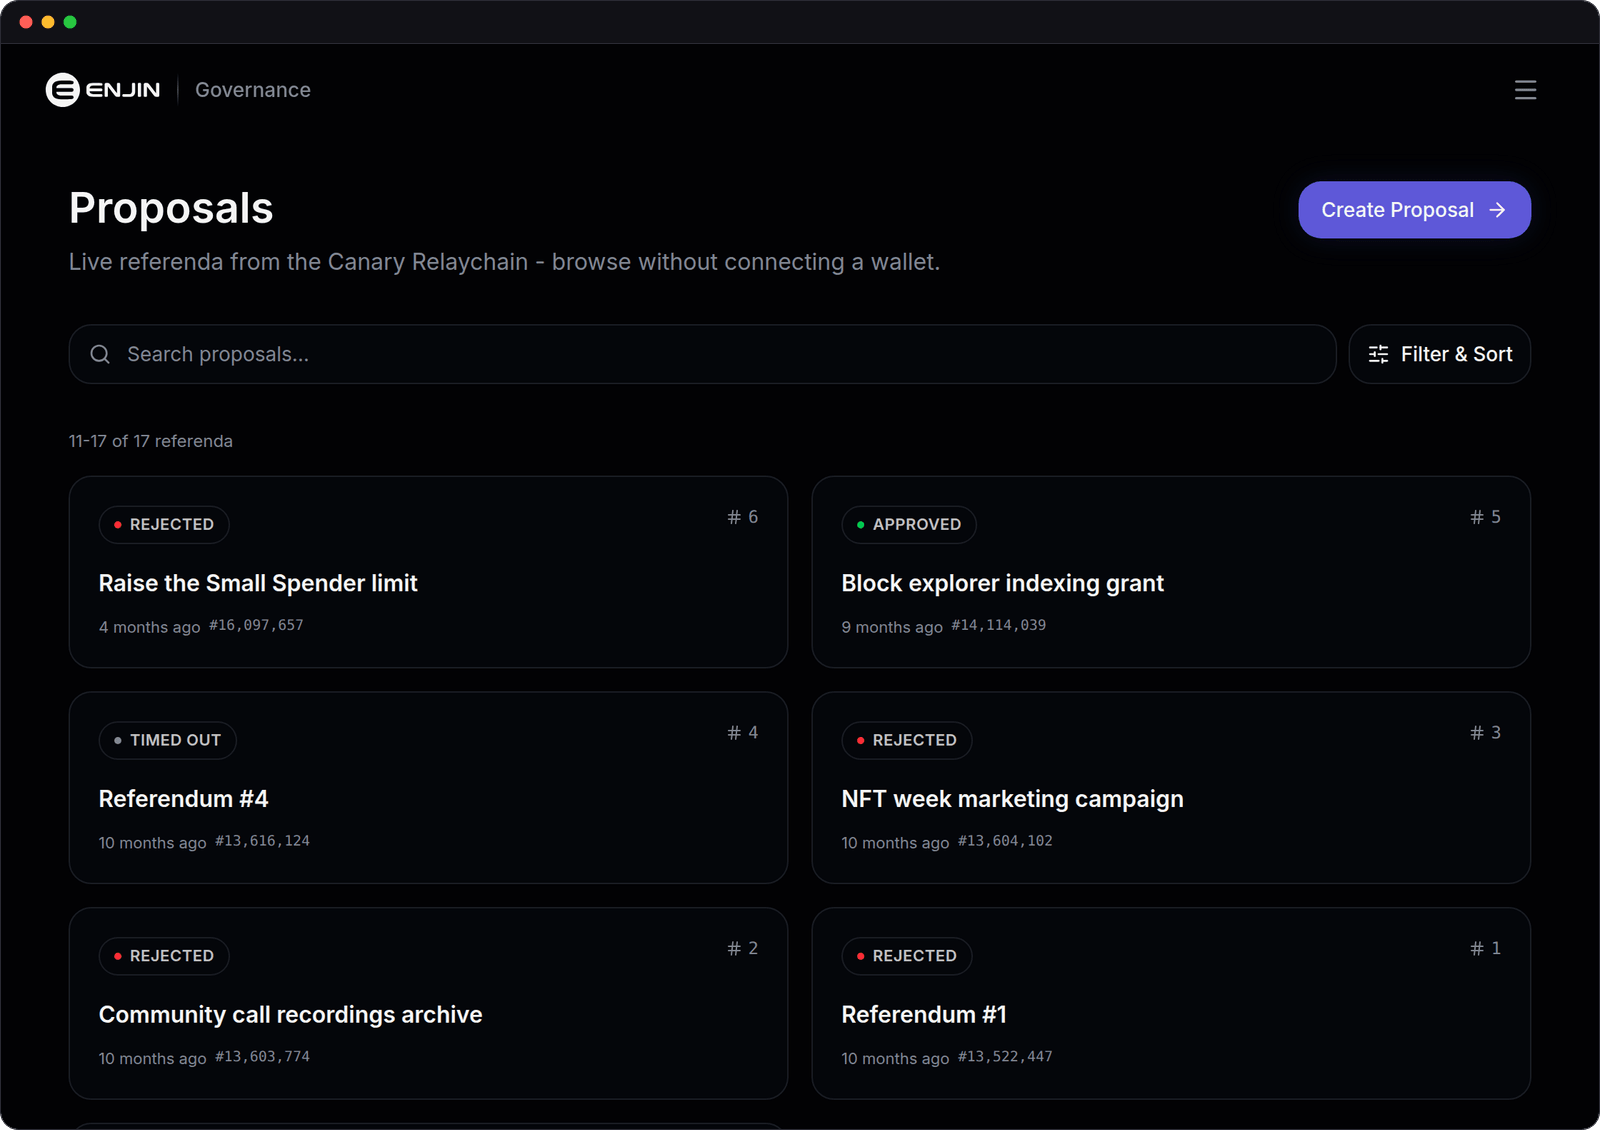
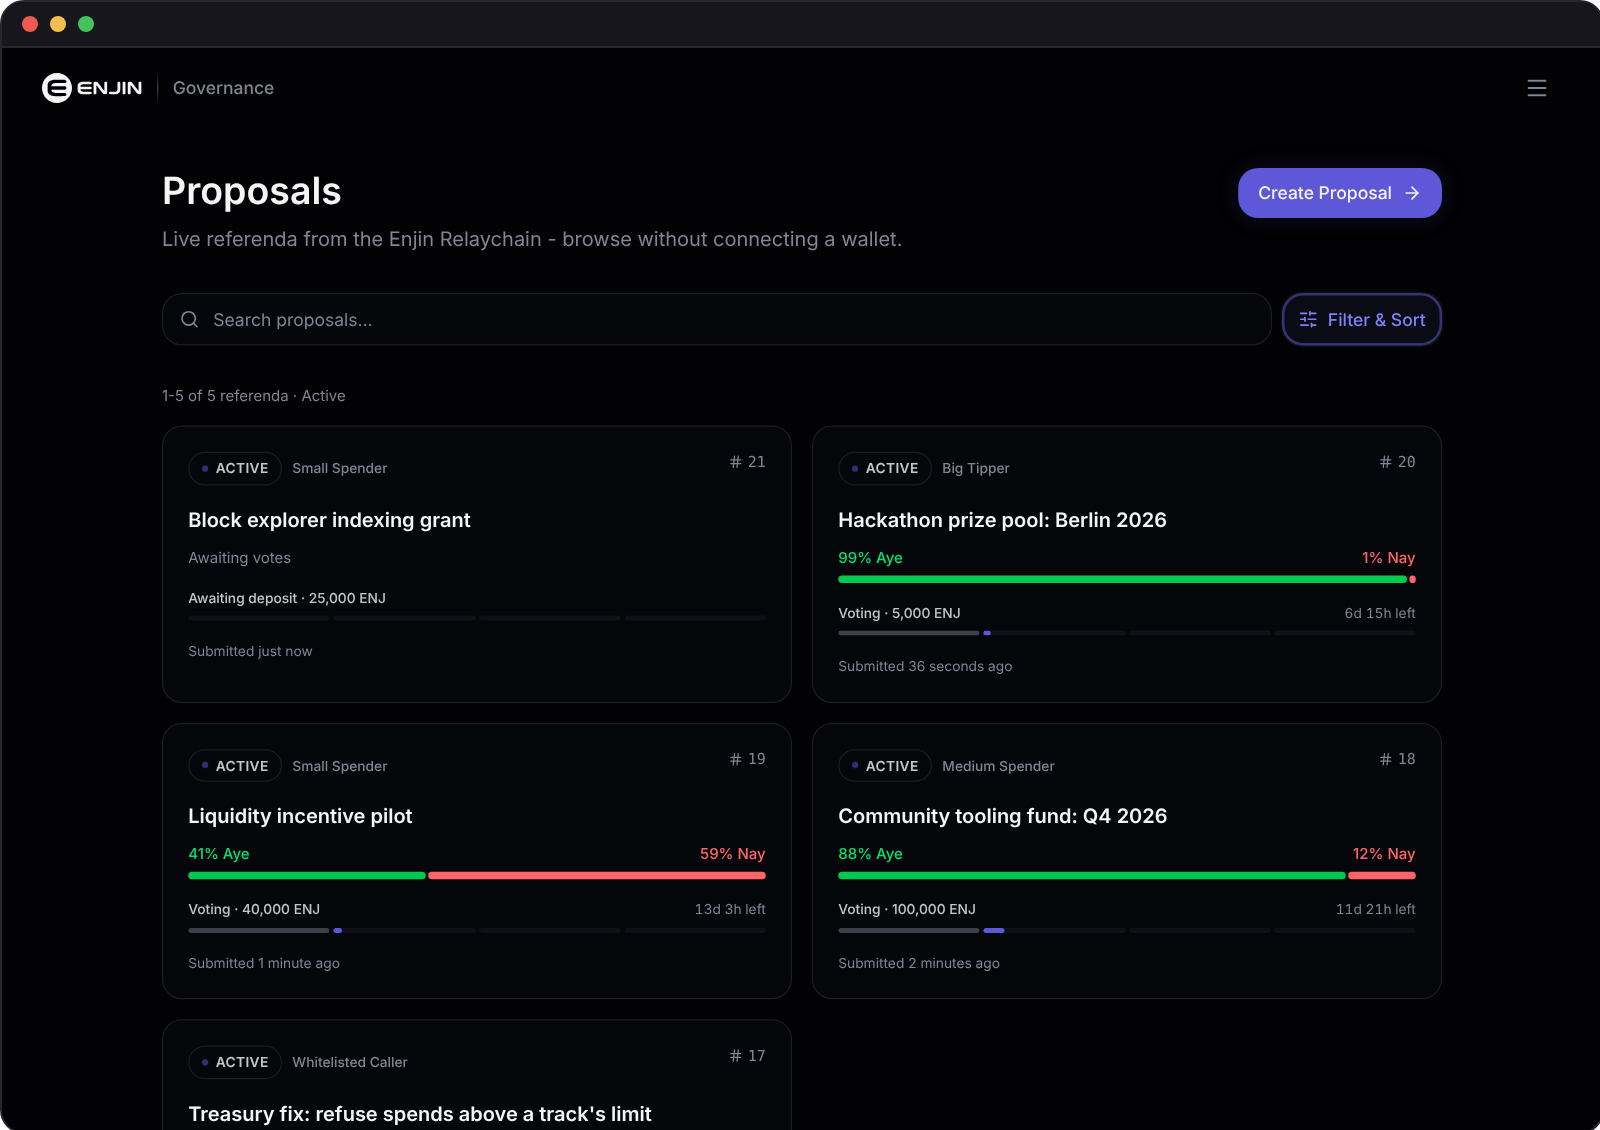
Bring the README and its screenshots up to 2.0
New screenshots in light and dark from a fork of Enjin Relaychain:
mainnet addresses and ENJ instead of Canary's cn and cENJ, the wide
layout, Abstain in the vote panel, the moderation Status tab and the 5.5
models. The Fellowship replaces the advanced composer image, which still
showed the removed system.setCode.

The text adds Abstain, the Fellowship and the fast track, the one-tap
Enjin Wallet flow, the Fellowship pages, Canary Matrixchain's move to
OpenGov, and current numbers (1205 unit and 28 browser tests).

diff --git a/README.md b/README.md
@@ -6,13 +6,13 @@
 
 <p align="center">
   <b>The web client for <a href="https://docs.enjin.io/">Enjin OpenGov</a>.</b><br/>
-  Browse referenda, vote with conviction, file treasury and admin proposals,
-  discuss them and keep the space clean - from the browser, backed by live chain RPC.
+  Browse referenda, vote Aye, Nay or Abstain, file treasury and admin proposals,
+  follow the Fellowship, discuss and keep the space clean - from the browser, backed by live chain RPC.
 </p>
 
 <p align="center">
   <a href="https://github.com/chriszemmel/enjin-governance/actions/workflows/ci.yml"><img alt="CI" src="https://github.com/chriszemmel/enjin-governance/actions/workflows/ci.yml/badge.svg" /></a>
-  <img alt="Tests" src="https://img.shields.io/badge/tests-1146%20passing-22c55e?style=flat-square" />
+  <img alt="Tests" src="https://img.shields.io/badge/tests-1205%20passing-22c55e?style=flat-square" />
   <a href="LICENSE"><img alt="License: AGPL-3.0" src="https://img.shields.io/badge/license-AGPL--3.0-6d28d9?style=flat-square" /></a>
   <img alt="Next.js" src="https://img.shields.io/badge/Next.js-16-black?style=flat-square&logo=next.js" />
   <img alt="React" src="https://img.shields.io/badge/React-19-149eca?style=flat-square&logo=react&logoColor=white" />
@@ -48,13 +48,18 @@
 <table>
   <tr>
     <td width="33%" valign="top"><b>Read the chain</b><br/>Referenda, tallies, voters and history straight from Enjin's RPC and archive nodes. No indexer required.</td>
-    <td width="33%" valign="top"><b>Vote and delegate</b><br/>Conviction voting, delegation per track or across all, lock and deposit reclaims. Six wallets, including Enjin Wallet.</td>
+    <td width="33%" valign="top"><b>Vote and delegate</b><br/>Aye, Nay or Abstain with conviction, delegation per track or across all, lock and deposit reclaims. Six wallets, including Enjin Wallet.</td>
     <td width="33%" valign="top"><b>Propose</b><br/>Treasury requests and admin calls - runtime upgrades, cancels, whitelists, raw calls - in one signature each.</td>
   </tr>
   <tr>
     <td valign="top"><b>Write for voters</b><br/>Markdown, inline images, PDFs and checksum-validated address chips, with a live preview of what voters will see.</td>
     <td valign="top"><b>Verifiable records</b><br/>Every proposal's text is pinned on chain with an EGOV1 hash, so anyone can check it hasn't been swapped.</td>
     <td valign="top"><b>Moderation built in</b><br/>Reports, a review queue, roles by wallet, a public log and optional AI pre-checks with a hard daily cost cap.</td>
+  </tr>
+  <tr>
+    <td valign="top"><b>The Fellowship</b><br/>Members, ranks and every F# referendum, rank-weighted voting, and filing from a Fellowship chamber.</td>
+    <td valign="top"><b>The fast track</b><br/>A call the Fellowship whitelists runs through the public WhitelistedCaller track, linked on both referenda.</td>
+    <td valign="top"><b>Built from the runtime</b><br/>Tracks, deposits, spend limits, support and vote weights are read from the chain and follow its upgrades.</td>
   </tr>
 </table>
 
@@ -80,10 +85,10 @@
   <tr>
     <td width="50%" valign="top">
       <picture>
-        <source media="(prefers-color-scheme: dark)" srcset="docs/screenshots/advanced-dark.png" />
-        <img src="docs/screenshots/advanced-light.png" alt="Reviewing a runtime upgrade proposal before signing" />
+        <source media="(prefers-color-scheme: dark)" srcset="docs/screenshots/fellowship-dark.png" />
+        <img src="docs/screenshots/fellowship-light.png" alt="A fellowship referendum that whitelists a runtime upgrade, with the member's rank-weighted vote" />
       </picture>
-      <p align="center"><sub><b>Advanced proposals</b> - a runtime upgrade, reviewed before signing</sub></p>
+      <p align="center"><sub><b>The Fellowship</b> - a whitelist referendum and a rank-weighted vote</sub></p>
     </td>
     <td width="50%" valign="top">
       <picture>
@@ -98,12 +103,12 @@
 <p align="center">
   <picture>
     <source media="(prefers-color-scheme: dark)" srcset="docs/screenshots/phones-dark.png" />
-    <img src="docs/screenshots/phones-light.png" alt="The app on a phone: proposals, a proposal, its tally and text, and the report dialog" width="100%" />
+    <img src="docs/screenshots/phones-light.png" alt="The app on a phone: proposals, a proposal, its text, and voting Abstain" width="100%" />
   </picture>
   <br/><sub>Every page works on a phone.</sub>
 </p>
 
-<sub>Screenshots show test data on Canary.</sub>
+<sub>Screenshots show sample proposals on a local fork of Enjin Relaychain, with test wallets that never sign.</sub>
 
 ## Contents
 
@@ -138,8 +143,32 @@
   the 0.1x-6x tiers. "One whale or many holders" at a glance.
 - **Lifecycle progress** - visual prepare/decide/confirm timeline,
   decision-deposit awaiting state, time-elapsed badges.
-- **Conviction voting** - lock durations come from the runtime's
-  vote-locking period (the same on every track), never hardcoded.
+- **Conviction voting** - Aye, Nay or Abstain (a `SplitAbstain` vote that
+  counts toward support, not approval, with no lock). Lock durations come
+  from the runtime's vote-locking period (the same on every track), never
+  hardcoded.
+- **Runtime-correct rules** - treasury tiers, deposits and refunds, the
+  support denominator and enactment are read from the runtime and keyed
+  on its spec version, so an upgrade (1070 → 1080) changes them in an
+  open tab. Every rule was tried on Chopsticks forks of Enjin Relaychain
+  and Canary.
+
+### The Fellowship
+
+- **Members and F# referenda** - `/fellowship` lists the ranked members,
+  every fellowship referendum (numbered apart from public ones, as F#N)
+  and the calls waiting on the whitelist. Shown only where the runtime
+  has the pallets.
+- **Rank-weighted voting** - a member's vote counts (e+1)(e+2)/2, with e
+  their rank above the track's minimum; approval by weight, support by
+  members voting Aye. A rank below the track is told which rank it needs.
+- **Filing** - the advanced composer's Fellowship chamber whitelists or
+  removes a call, adds, promotes, demotes or removes a member, or enacts a
+  raw call, with the origin each change needs recommended. F# referenda
+  carry EGOV1 records, comments and moderation like public ones.
+- **The fast track** - a call the Fellowship whitelists and the public
+  WhitelistedCaller referendum that dispatches it show the same four
+  steps and link each other by the call's hash.
 
 ### Write to the chain
 
@@ -158,6 +187,11 @@
   sign-in) flows through the same modal that the connect QR uses, so
   WalletConnect sessions never get a stale prompt and the wake/redirect
   always targets the right peer.
+- **Enjin Wallet on one tap** - "Open in Enjin Wallet" waits until the
+  relay has the request, so the wallet never opens to nothing; a second
+  tap after coming back re-sends the same request. A session the wallet
+  ends shows as disconnected instead of taking requests nobody answers.
+  See [`docs/WALLET_INTEGRATION.md`](docs/WALLET_INTEGRATION.md).
 - **Treasury proposals end to end** - create wizard batches `preimage.notePreimage`
   + `referenda.submit` + `preimage.notePreimage(envelope)` +
   `referenda.setMetadata` via `utility.batchAll`. The referendum's
@@ -277,7 +311,11 @@
   Surfaces unfinished drafts at the top so the proposer can pick up where
   they left off. Beneficiary, enactment timing, and decision-deposit
   placement are all in the flow.
-- **`/create/advanced`** - general + admin proposal composer: cancel /
+- **`/fellowship`** - members, ranks, every fellowship referendum and the
+  whitelist; **`/fellowship/[index]`** shows one F# with its call, the
+  rank-weighted tally, the votes and the member's vote panel.
+- **`/create/advanced`** - general + admin proposal composer (and, with
+  `?chamber=fellowship`, the Fellowship chamber): cancel /
   kill a referendum, whitelist a call, authorize a runtime upgrade (hash
   computed in the browser from the `.wasm`), on-chain remark, or a raw SCALE
   call, under a chosen track origin (inline vs preimage chosen automatically
@@ -330,7 +368,9 @@
 - **Tested at three levels** - unit and route tests with Vitest,
   database tests against real Postgres (PGlite) with the real
   migrations, and Playwright browser tests against the production build.
-  CI runs all of them on every pull request and on `main`.
+  CI runs all of them, plus a dependency audit, on every pull request and
+  on `main`. Runtime rules were also tried on Chopsticks forks of the live
+  chains.
 
 ---
 
@@ -338,10 +378,10 @@
 
 | | |
 |---|---|
-| TypeScript source files (excl. vendored shadcn and tests) | **~300** |
+| TypeScript source files (excl. vendored shadcn and tests) | **~340** |
 | Docs files | **7** |
-| Unit tests | **1146** (97 files), including route tests and database tests against PGlite |
-| Browser tests | **21** (Playwright, against the production build) |
+| Unit tests | **1205** (102 files), including route tests and database tests against PGlite |
+| Browser tests | **28** (Playwright, against the production build) |
 | Test coverage (lines) | **88%** of API routes, **80%** of server code (`app/api` and `lib`, without the browser-only `lib/query` and `lib/wallet`). Pages and components are covered by the browser tests, not by unit tests. |
 | Wallets supported | **6** (Enjin Wallet · generic WalletConnect · Polkadot.js · Talisman · SubWallet · PolkaGate) |
 | Chains configured | **4** - 2 live (Enjin + Canary **Relay**, OpenGov) plus 2 rails-only (Enjin + Canary **Matrix**, legacy `democracy` pallet, not yet integrated). Dedicated archive RPCs per chain. |
@@ -411,7 +451,7 @@ pnpm lint         # ESLint
 pnpm lint:fix     # ESLint --fix
 pnpm format       # Prettier --write
 pnpm knip         # Find dead code / unused deps
-pnpm test         # Vitest (1146 tests)
+pnpm test         # Vitest (1205 tests)
 pnpm test:watch   # Vitest watch
 pnpm test:e2e     # Playwright browser tests (builds, then serves on :3100)
 ```
@@ -713,19 +753,18 @@ its cost.
 | Enjin Relaychain | `wss://rpc.relay.blockchain.enjin.io` | 2135 (`en…`) | ENJ | **Primary** |
 | Canary Relaychain | `wss://rpc.relay.canary.enjin.io` | 69 (`cn…`) | cENJ | **Default for canary testing** |
 | Enjin Matrixchain | `wss://rpc.matrix.blockchain.enjin.io` | 1110 (`ef…`) | ENJ | Rails only - legacy `democracy` pallet, not OpenGov |
-| Canary Matrixchain | `wss://rpc.matrix.canary.enjin.io` | 9030 (`cx…`) | cENJ | Rails only - legacy `democracy` pallet, not OpenGov |
+| Canary Matrixchain | `wss://rpc.matrix.canary.enjin.io` | 9030 (`cx…`) | cENJ | Rails only - OpenGov since spec 1042 (no treasury), planned for 2.1 |
 
 Treasury (Relay): `enD9wdMEaQa3MEDUc7dtsCC86JYGMN5JBE2NBRoMyC37dX4iA`
 Community wallet (Matrix multisig): `efRd63tR845wJ4FxoUfFgrDpxfAQ2t1iydU7LyzJCf577hgTH`
 
 The two Matrixchains are in the chain registry (RPC, SS58, archive RPC,
-treasury address) but ship `enabled: false`. They run Substrate's legacy
-`democracy` pallet plus `council` / `technicalCommittee` collectives - not the
-OpenGov stack (`referenda` + `convictionVoting`) this client is built around
-(confirmed live against the `matrix-enjin` runtime, spec 1031). Matrix
-governance is therefore a separate integration - a `democracy`-pallet read /
-write surface - rather than a config flip, and a natural future expansion for
-the ecosystem.
+treasury address) but ship `enabled: false`. Enjin Matrixchain (spec 1031)
+still runs Substrate's legacy `democracy` pallet plus `council` /
+`technicalCommittee` collectives. Canary Matrixchain moved to OpenGov in
+spec 1042: nine tracks, `convictionVoting.vote` without the Relay's
+`currency` argument, and no treasury. Matrix support is planned for 2.1,
+starting from the OpenGov side the Relay already uses.
 
 ---
 
